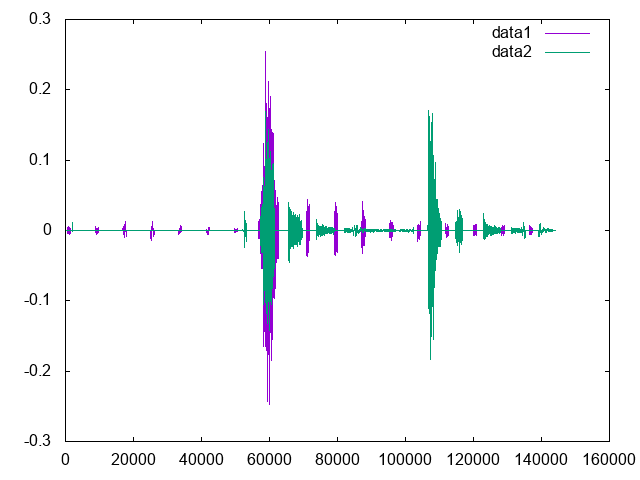
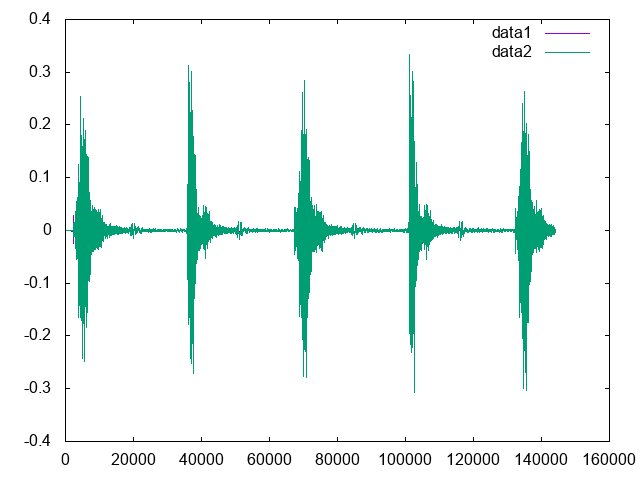
Fixed

diff --git a/src/ffmpeg_pipe.c b/src/ffmpeg_pipe.c
@@ -20,7 +20,7 @@ void read_pipe(struct thread_data *data, char *args[]) {
 
     pid_t pid = fork();
     if (pid < 0) {
-        perror("fork()");
+        perror("fork");
         return;
     } else if (pid == 0) {
         // Child process (ffmpeg), doesn't read the pipe.
@@ -28,18 +28,17 @@ void read_pipe(struct thread_data *data, char *args[]) {
 
         // Redirecting stdout to the pipe
         dup2(wav_pipe[WRITE_END], 1);
-
 #ifndef DEBUG
         // Ignoring stderr when debug mode is disabled
         freopen("/dev/null", "w", stderr);
 #endif
+
         execvp("ffmpeg", args);
         printf("ffmpeg command failed.\n");
     } else {
-        // Parent process (reading the output pipe)
-        close(wav_pipe[WRITE_END]);  // Parent won't write the pipe
+        // Parent process (reading the output pipe), doesn't write.
+        close(wav_pipe[WRITE_END]);
 
-        // Reading pipe
         int interval_count = 0;
         data->len = 0;
         while (data->len < data->total_len) {
@@ -50,12 +49,14 @@ void read_pipe(struct thread_data *data, char *args[]) {
                 break;
             }
 
-            // Reading the data from ffmpeg in chunks of READ_BUFSIZE.
-            if (read(wav_pipe[READ_END], (data->buf + data->len),
-                     READ_BUFSIZE * sizeof(*(data->buf))) < 0) {
+            // Reading the data from ffmpeg one by one. If a buffer is used,
+            // the read data is incorrect. I should investigate more about this
+            // though, as I don't fully understand why this happens.
+            if (read(wav_pipe[READ_END], (data->buf + data->len), sizeof(*(data->buf))) < 0) {
+                perror("READ");
                 break;
             }
-            data->len += READ_BUFSIZE;
+            data->len++;
 
             // Signaling the main thread when a full interval is read.
             if (data->len >= data->intervals[interval_count]) {

diff --git a/src/cross_correlation.c b/src/cross_correlation.c
@@ -72,6 +72,24 @@ int cross_correlation(double *input1, double *input2, const size_t input_length,
     memcpy(data2, input2, input_length * sizeof(double));
     memset(data2 + input_length, 0, (length - input_length) * sizeof(double));
 
+#ifdef DEBUG
+    // Plotting the output with gnuplot
+    printf(">> Saving initial plot to '%ld_original.png'\n", input_length);
+    FILE *gnuplot2 = popen("gnuplot", "w");
+    fprintf(gnuplot2, "set term 'png'\n");
+    fprintf(gnuplot2, "set output 'images/%ld_original.png'\n", input_length);
+    fprintf(gnuplot2, "plot '-' with lines title 'data1', '-' with lines title 'data2'\n");
+    for (size_t i = 0; i < input_length; ++i)
+        fprintf(gnuplot2, "%f\n", data1[i]);
+    fprintf(gnuplot2, "e\n");
+    // The second audio file starts at samplesDelay
+    for (size_t i = 0; i < input_length; ++i)
+        fprintf(gnuplot2, "%f\n", data2[i]);
+    fprintf(gnuplot2, "e\n");
+    fflush(gnuplot2);
+    pclose(gnuplot2);
+#endif
+
     // Getting the complex results from both FFT. The output length for the
     // complex numbers is n/2+1.
     const size_t cpx_length = (length / 2) + 1;

diff --git a/src/global.h b/src/global.h
@@ -19,9 +19,6 @@
 // The minimum cross-correlation coefficient accepted.
 #define MIN_CONFIDENCE 0.75
 
-// The buffer size used in the capture and download modules.
-#define READ_BUFSIZE 8192
-
 // Struct used to pass variables to pthreads.
 struct thread_data {
     double *buf;

diff --git a/src/audiosync.c b/src/audiosync.c
@@ -78,7 +78,7 @@ PyObject *audiosync_get_lag(PyObject *self, PyObject *args) {
         .end = &end
     };
     struct thread_data down_params = {
-        .buf = arr1,
+        .buf = arr2,
         .total_len = length,
         .len = 0,
         .intervals = intervals,

diff --git a/src/ffmpeg_pipe.h b/src/ffmpeg_pipe.h
@@ -1,7 +1,6 @@
 #ifndef _H_FFMPEG_PIPE
 #define _H_FFMPEG_PIPE
 
-
 #include "global.h"
 
 
